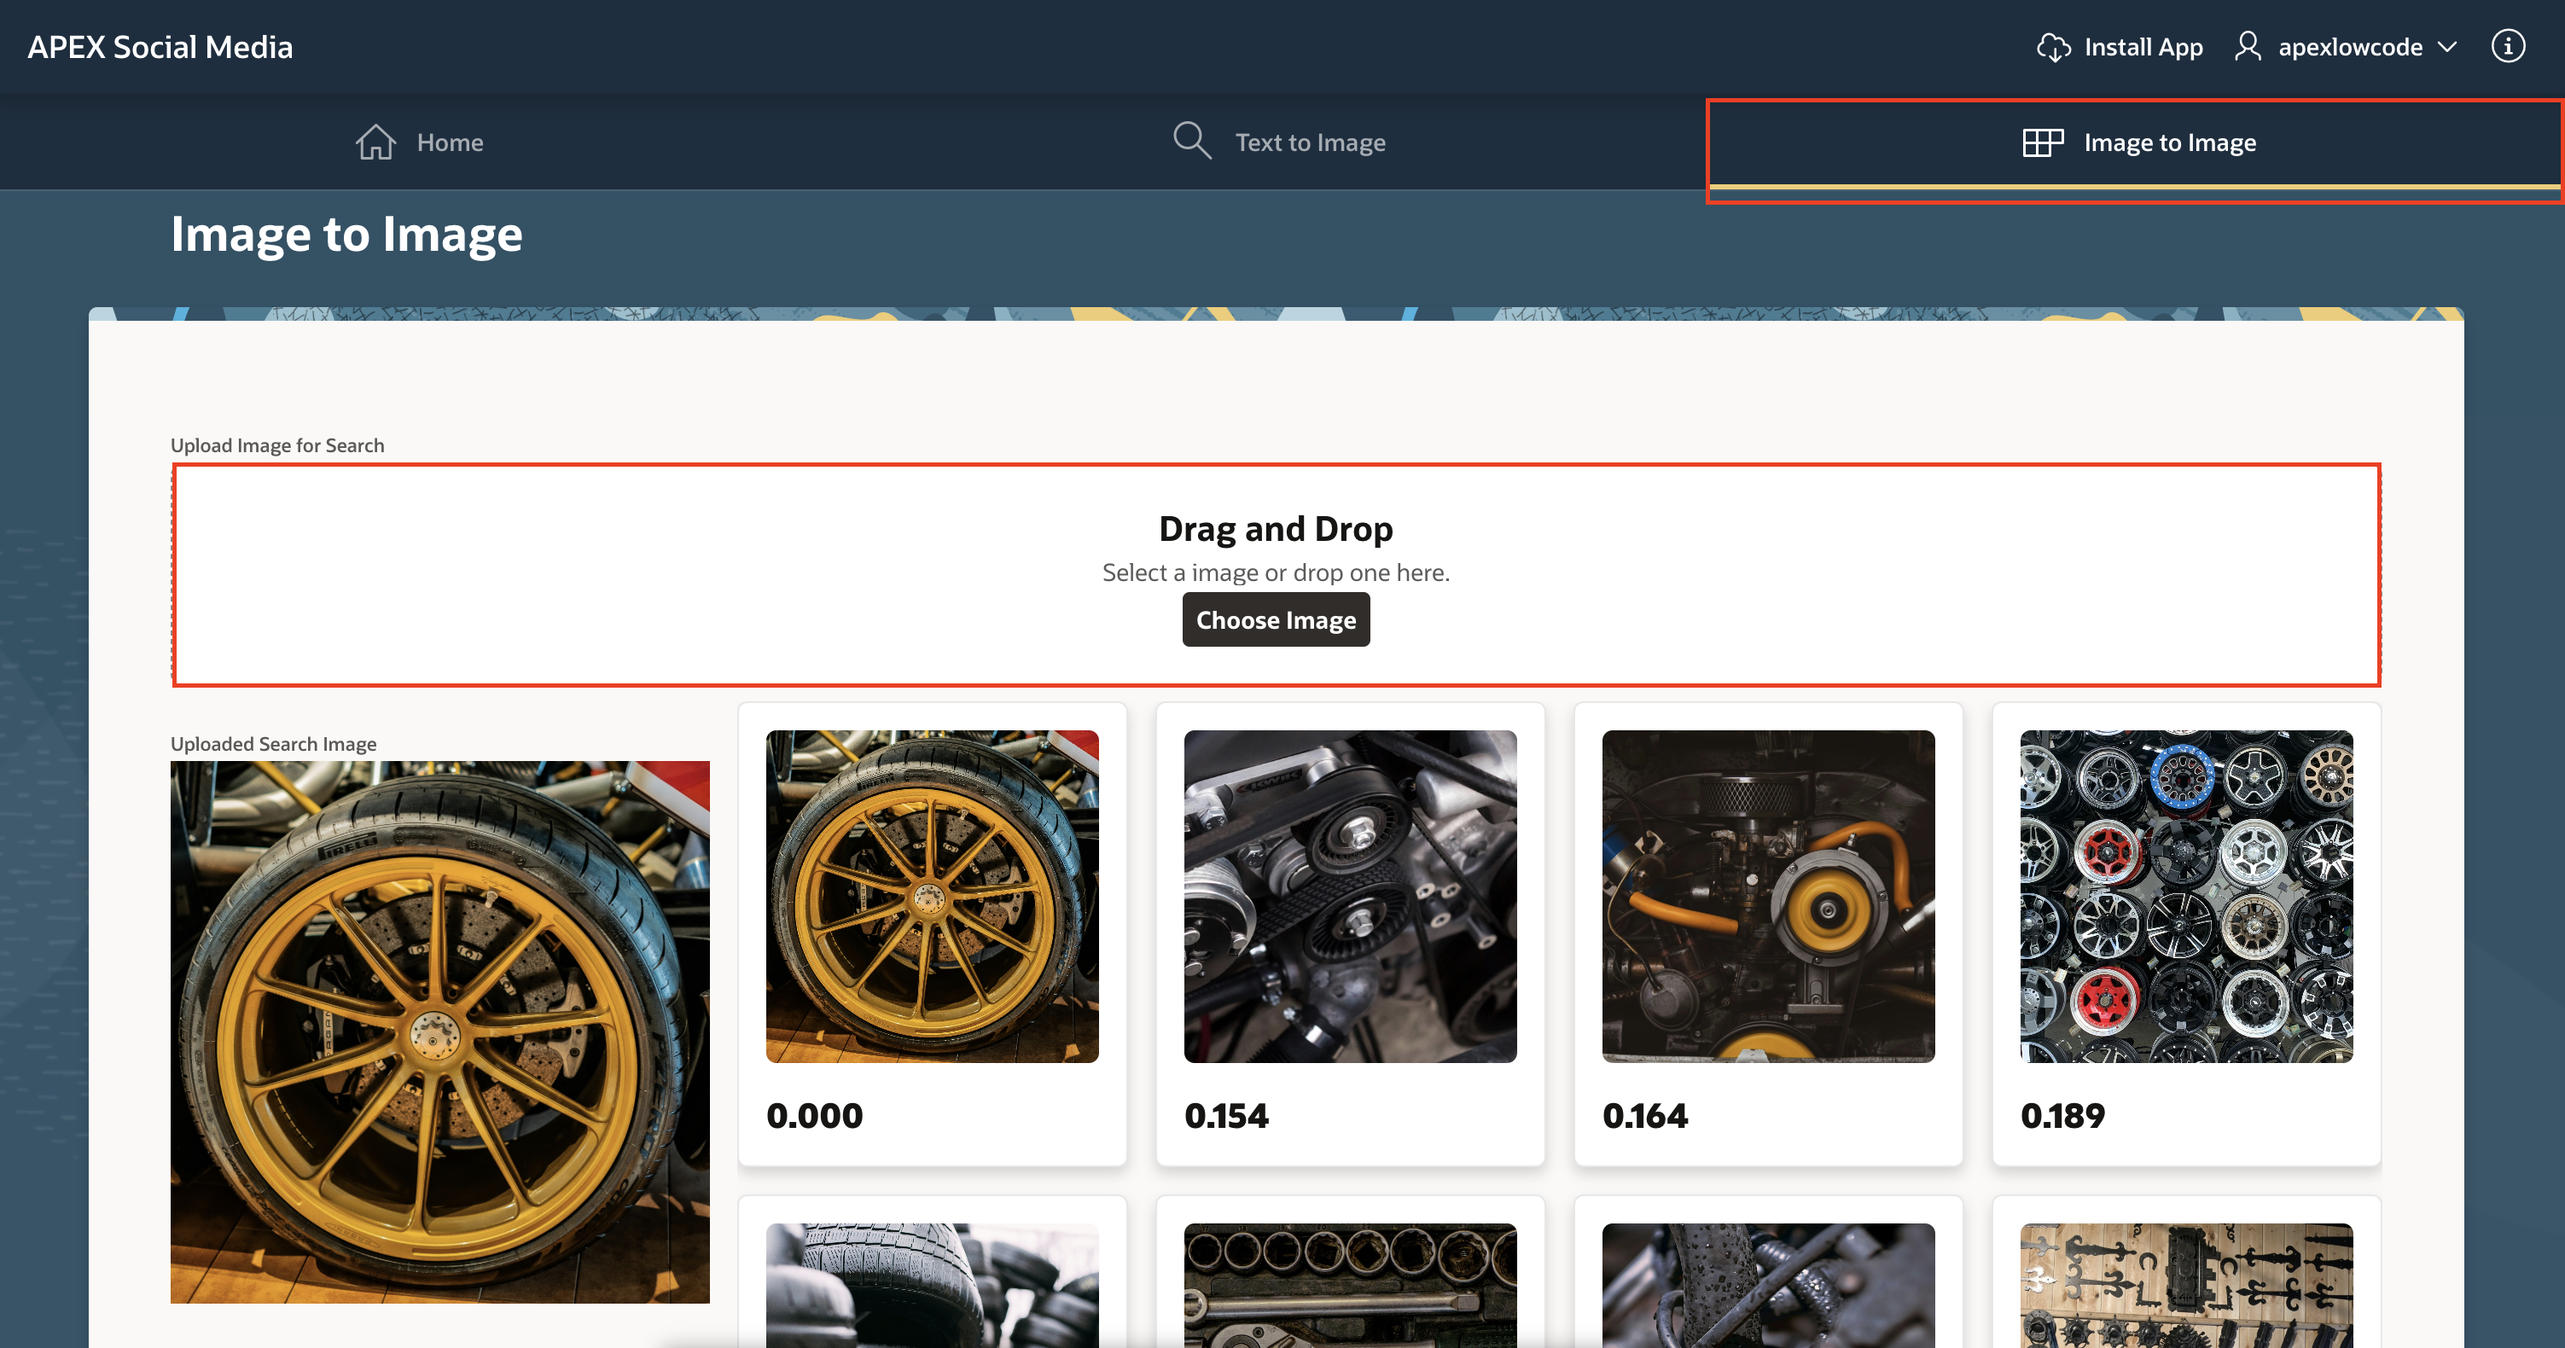
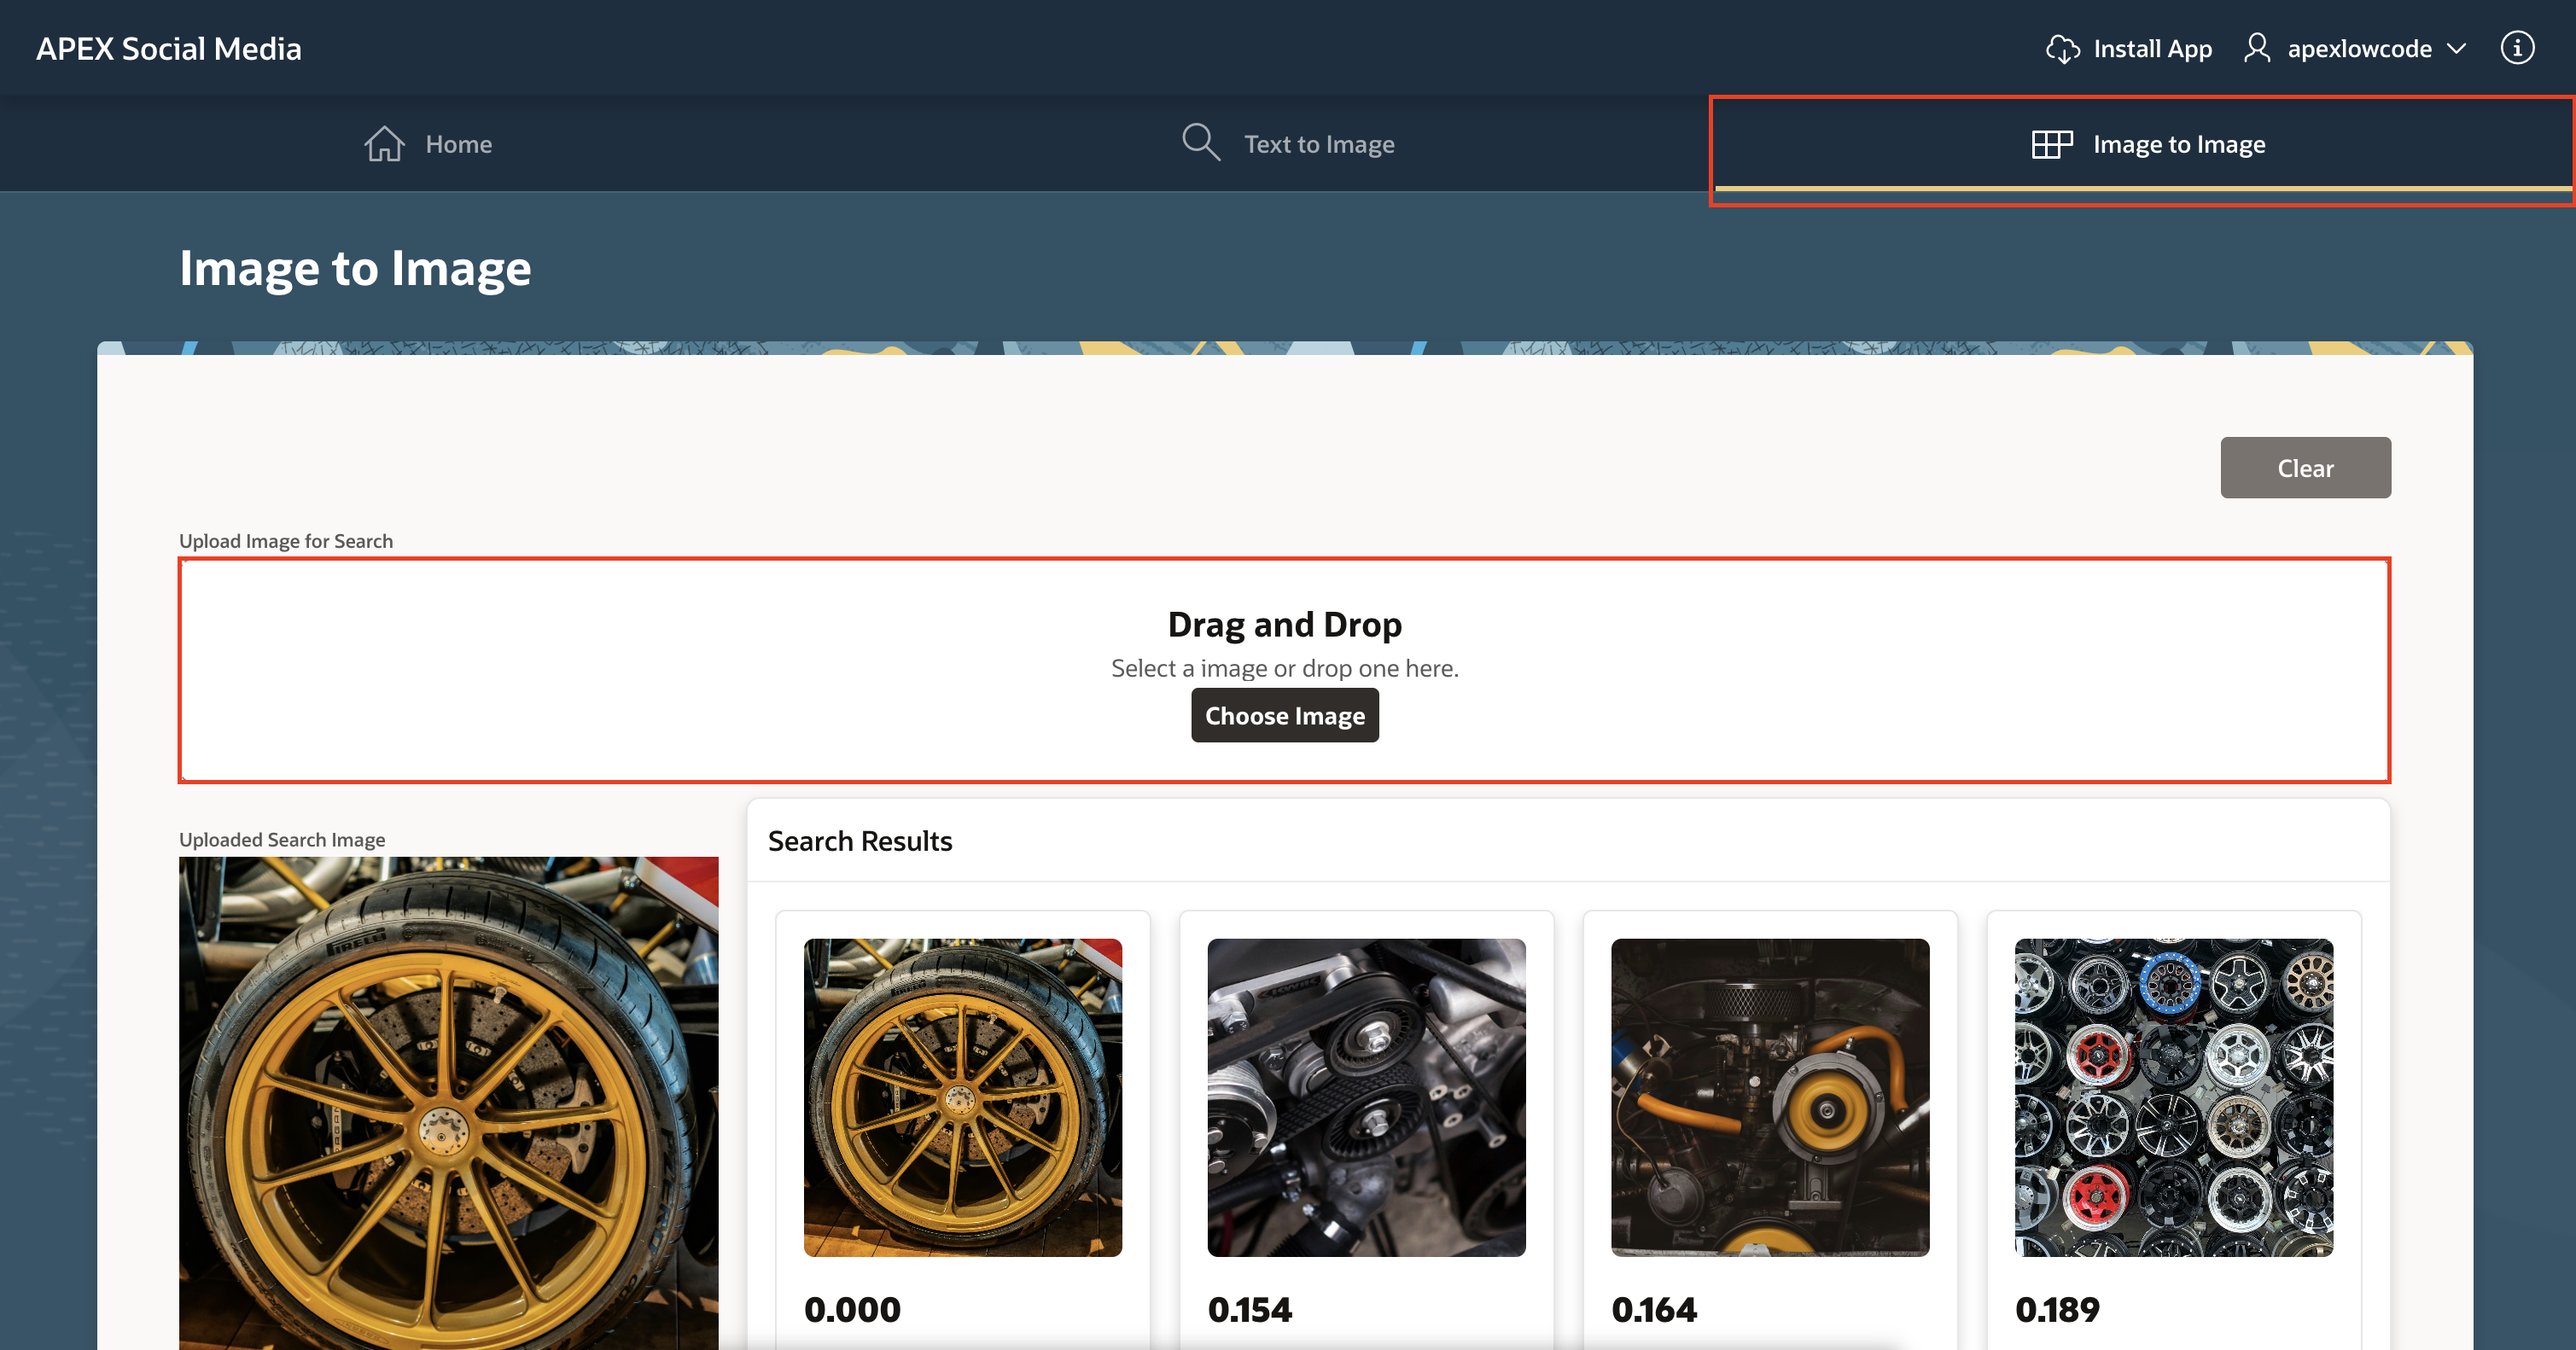
image semantic search

diff --git a/image-semantic-search/5-edit-application/5-edit-application.md b/image-semantic-search/5-edit-application/5-edit-application.md
@@ -156,7 +156,7 @@ In this task, we will create a Search page for Text based search.
 
 2. In the Create a Page Wizard, select the Component as **Cards** and click **Next**.
 
-    ![Create page](images/create-pages2.png " ")
+    ![Create page](images/create-pages2.png " " =60%x*)
 
 3. In the Create Cards Wizards, enter/select the following:
 
@@ -207,7 +207,7 @@ In this task, we will create a Search page for Text based search.
 
     Click **Next**.
 
-    ![Create page](images/create-pages3.png " ")
+    ![Create page](images/create-pages3.png " " =60%x*)
 
 4. In the Create Cards Wizard, select the following:
 
@@ -215,7 +215,7 @@ In this task, we will create a Search page for Text based search.
 
     Click **Create Page**.
 
-    ![Create page](images/create-pages4.png " ")
+    ![Create page](images/create-pages4.png " " =60%x*)
 
 5. In the Rendering tree, right click on the **Body** and select **Create Page Item**.
 
@@ -243,7 +243,7 @@ In this task, we will create a Search page for Text based search.
 
     ![Create Dynamic Action](images/create-das1.png " ")
 
-8. Select the New Action and enter the following in the Property editor:
+8. Select the **New** Action and enter the following in the property editor:
     - Identification > Name: **Submit Image**
 
     ![Create Dynamic Action](images/create-das2.png " ")
@@ -276,7 +276,7 @@ In this task, we will create a Search page for Text based search.
 
     - Execution > Point: **After Submit**
 
-    - Computation > SQL Query: copy and paste the below code:
+    - Computation > SQL Query: Copy and paste the below code:
 
         ```
          <copy>
@@ -304,7 +304,7 @@ In this task, we will create a Search page for Text based search.
 
         - Based on: **BLOB Column returned by SQL statement**
 
-        - SQL Statement: copy and paste the below query
+        - SQL Statement: Copy and paste the below query
             ```
              <copy>
              SELECT BLOB_CONTENT FROM APEX_APPLICATION_TEMP_FILES
@@ -319,7 +319,7 @@ In this task, we will create a Search page for Text based search.
         - Type: **Item is NOT NULL**
         - Item: **P3_IMAGE**
 
-    ![Display Page item](images/pa-display.png " " )
+    ![Display Page item](images/pa-display.png " " =30%x*)
 
     ![Display Page item](images/create-items6.png " ")
 
@@ -328,12 +328,18 @@ In this task, we will create a Search page for Text based search.
 16. In the Rendering tree, under Body, select **Image to Image** region, and enter/select the following in the property editor:
 
     - Identification >  Name: **Search Results**
+
     - Source > Page Items to Submit: **P3_FILENAME**
+
     - Under Layout:
         - Sequence: **40**
         - Start New Row: Toggle **OFF**
 
+    - Appearance > Template: **Standard**
+
     ![Property Editor cards](images/change-cards1.png " ")
+
+    ![Property Editor cards](images/change-cards3.png " ")
 
     - Under Attributes:
         - Appearance > Grid Columns: **4 Columns**
@@ -350,10 +356,30 @@ In this task, we will create a Search page for Text based search.
     ![Property Editor cards](images/card-attributes2.png " ")
 
     ![Property Editor cards](images/card-attributes.png " ")
+17. In the Rendering tree, right click on **Body** and select **Create Button**.
 
-17. **Save** the page.
+    ![Create button](images/create-clear.png " ")
 
-    ![Property editor Button](images/save-page.png " ")
+18. In the Property Editor, enter/select the following:
+
+    - Identification > Button Name: **Clear**
+
+    - Under Layout:
+        - Sequence: **10**
+        - Column: **12**
+
+    - Under Appearance:
+        - Template Options:
+            - Type: **Primary**
+            - Width: **Stretch**
+
+            Click **Ok**.
+
+    ![Save](images/clear-button.png " ")
+
+19. **Save** the page.
+
+    ![Save](images/save-page1.png " ")
 
 ## Task 4 : Embed the uploaded images
 
@@ -393,7 +419,7 @@ In this task, we will create a Search page for Text based search.
         - Name: **Vectorize**
         - Type: **Execute Code**
 
-    - Source > PL/SQL Code : copy and paste the below code:
+    - Source > PL/SQL Code : Copy and paste the below code:
 
         ```
          <copy>

diff --git a/image-semantic-search/6-run-app/6-run-app.md b/image-semantic-search/6-run-app/6-run-app.md
@@ -30,13 +30,13 @@ In this lab, you:
 
     In the following example, for text to image search, when you enter "yellow wheel" in the Search bar, the app displays all the images that contain or relate to a yellow wheel.
 
-    ![Click Timeline](images/img-class.png " ")
+    ![Text to Image Search](images/img-class.png " ")
 
-5. To perform an image-to-image search, navigate to the Image to Image tab, upload the image you want to find similar matches for, and press Enter. The app will then search and display all posted images that closely resemble the uploaded image.
+5. To perform an image-to-image search, navigate to the Image to Image tab, upload the image you want to find similar matches for. The app will then search and display all posted images that closely resemble the uploaded image.
 
     In the following example, for image-based search, when you upload an image of a 'yellow wheel', the app displays all posted images that are visually similar or related to the uploaded image.
 
-    ![Click Timeline](images/image-detect.png " ")
+    ![Image to Image Search](images/image-detect.png " ")
 
 ## Summary
 
